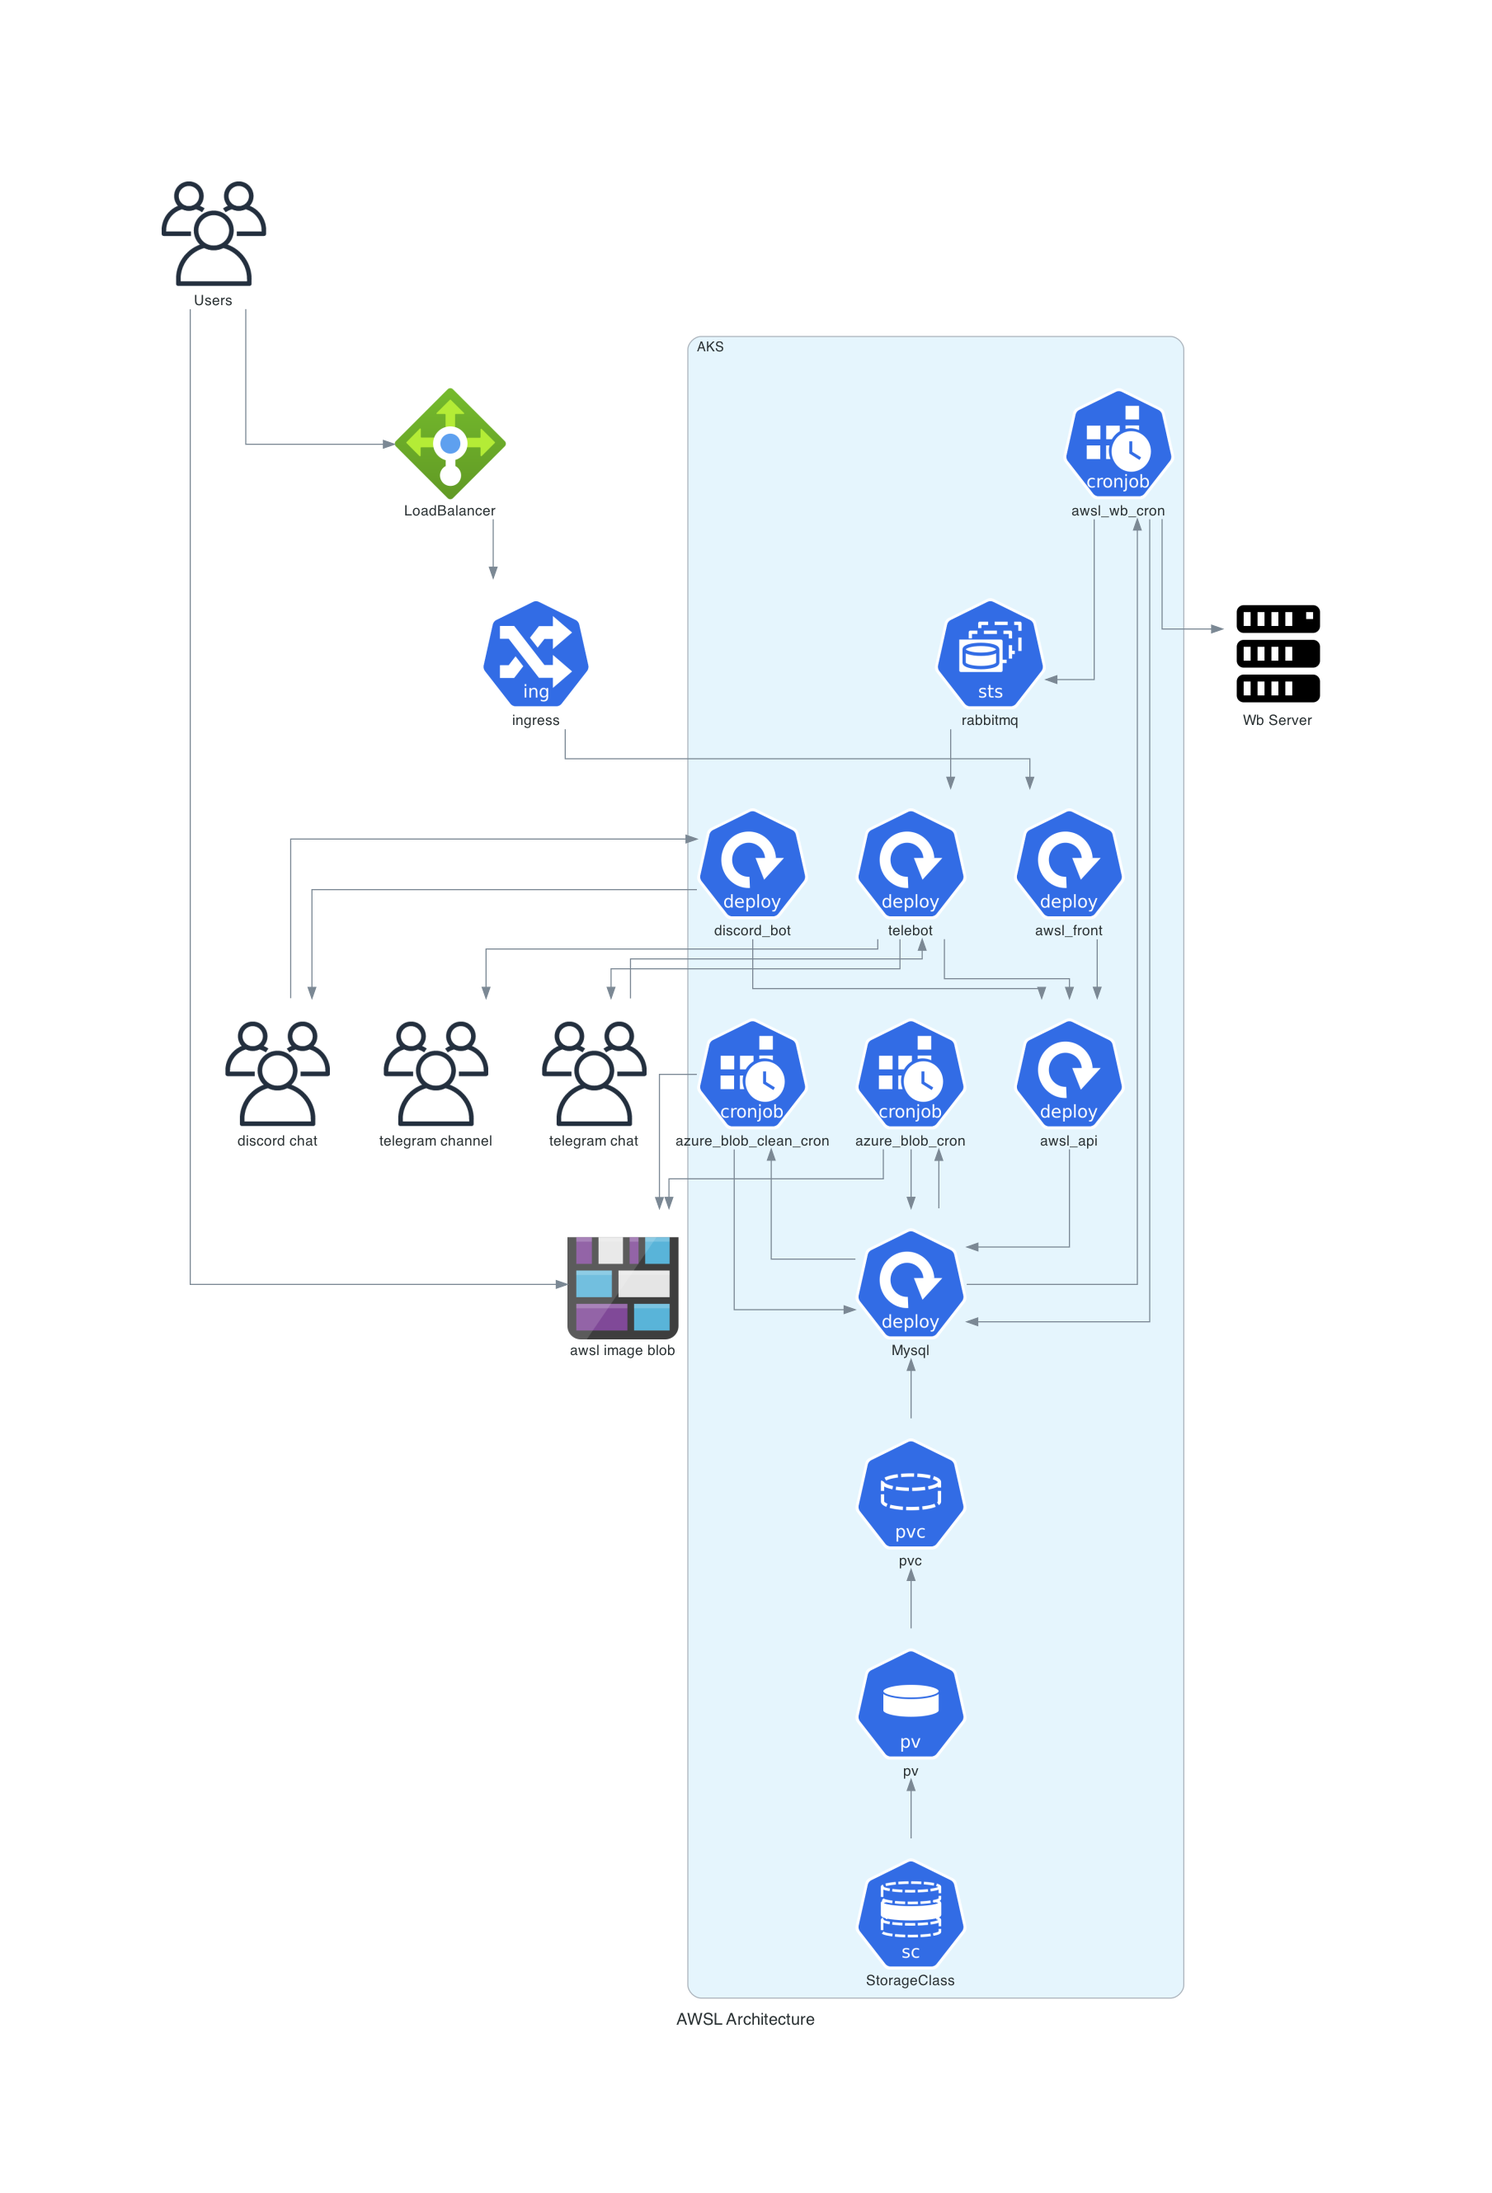
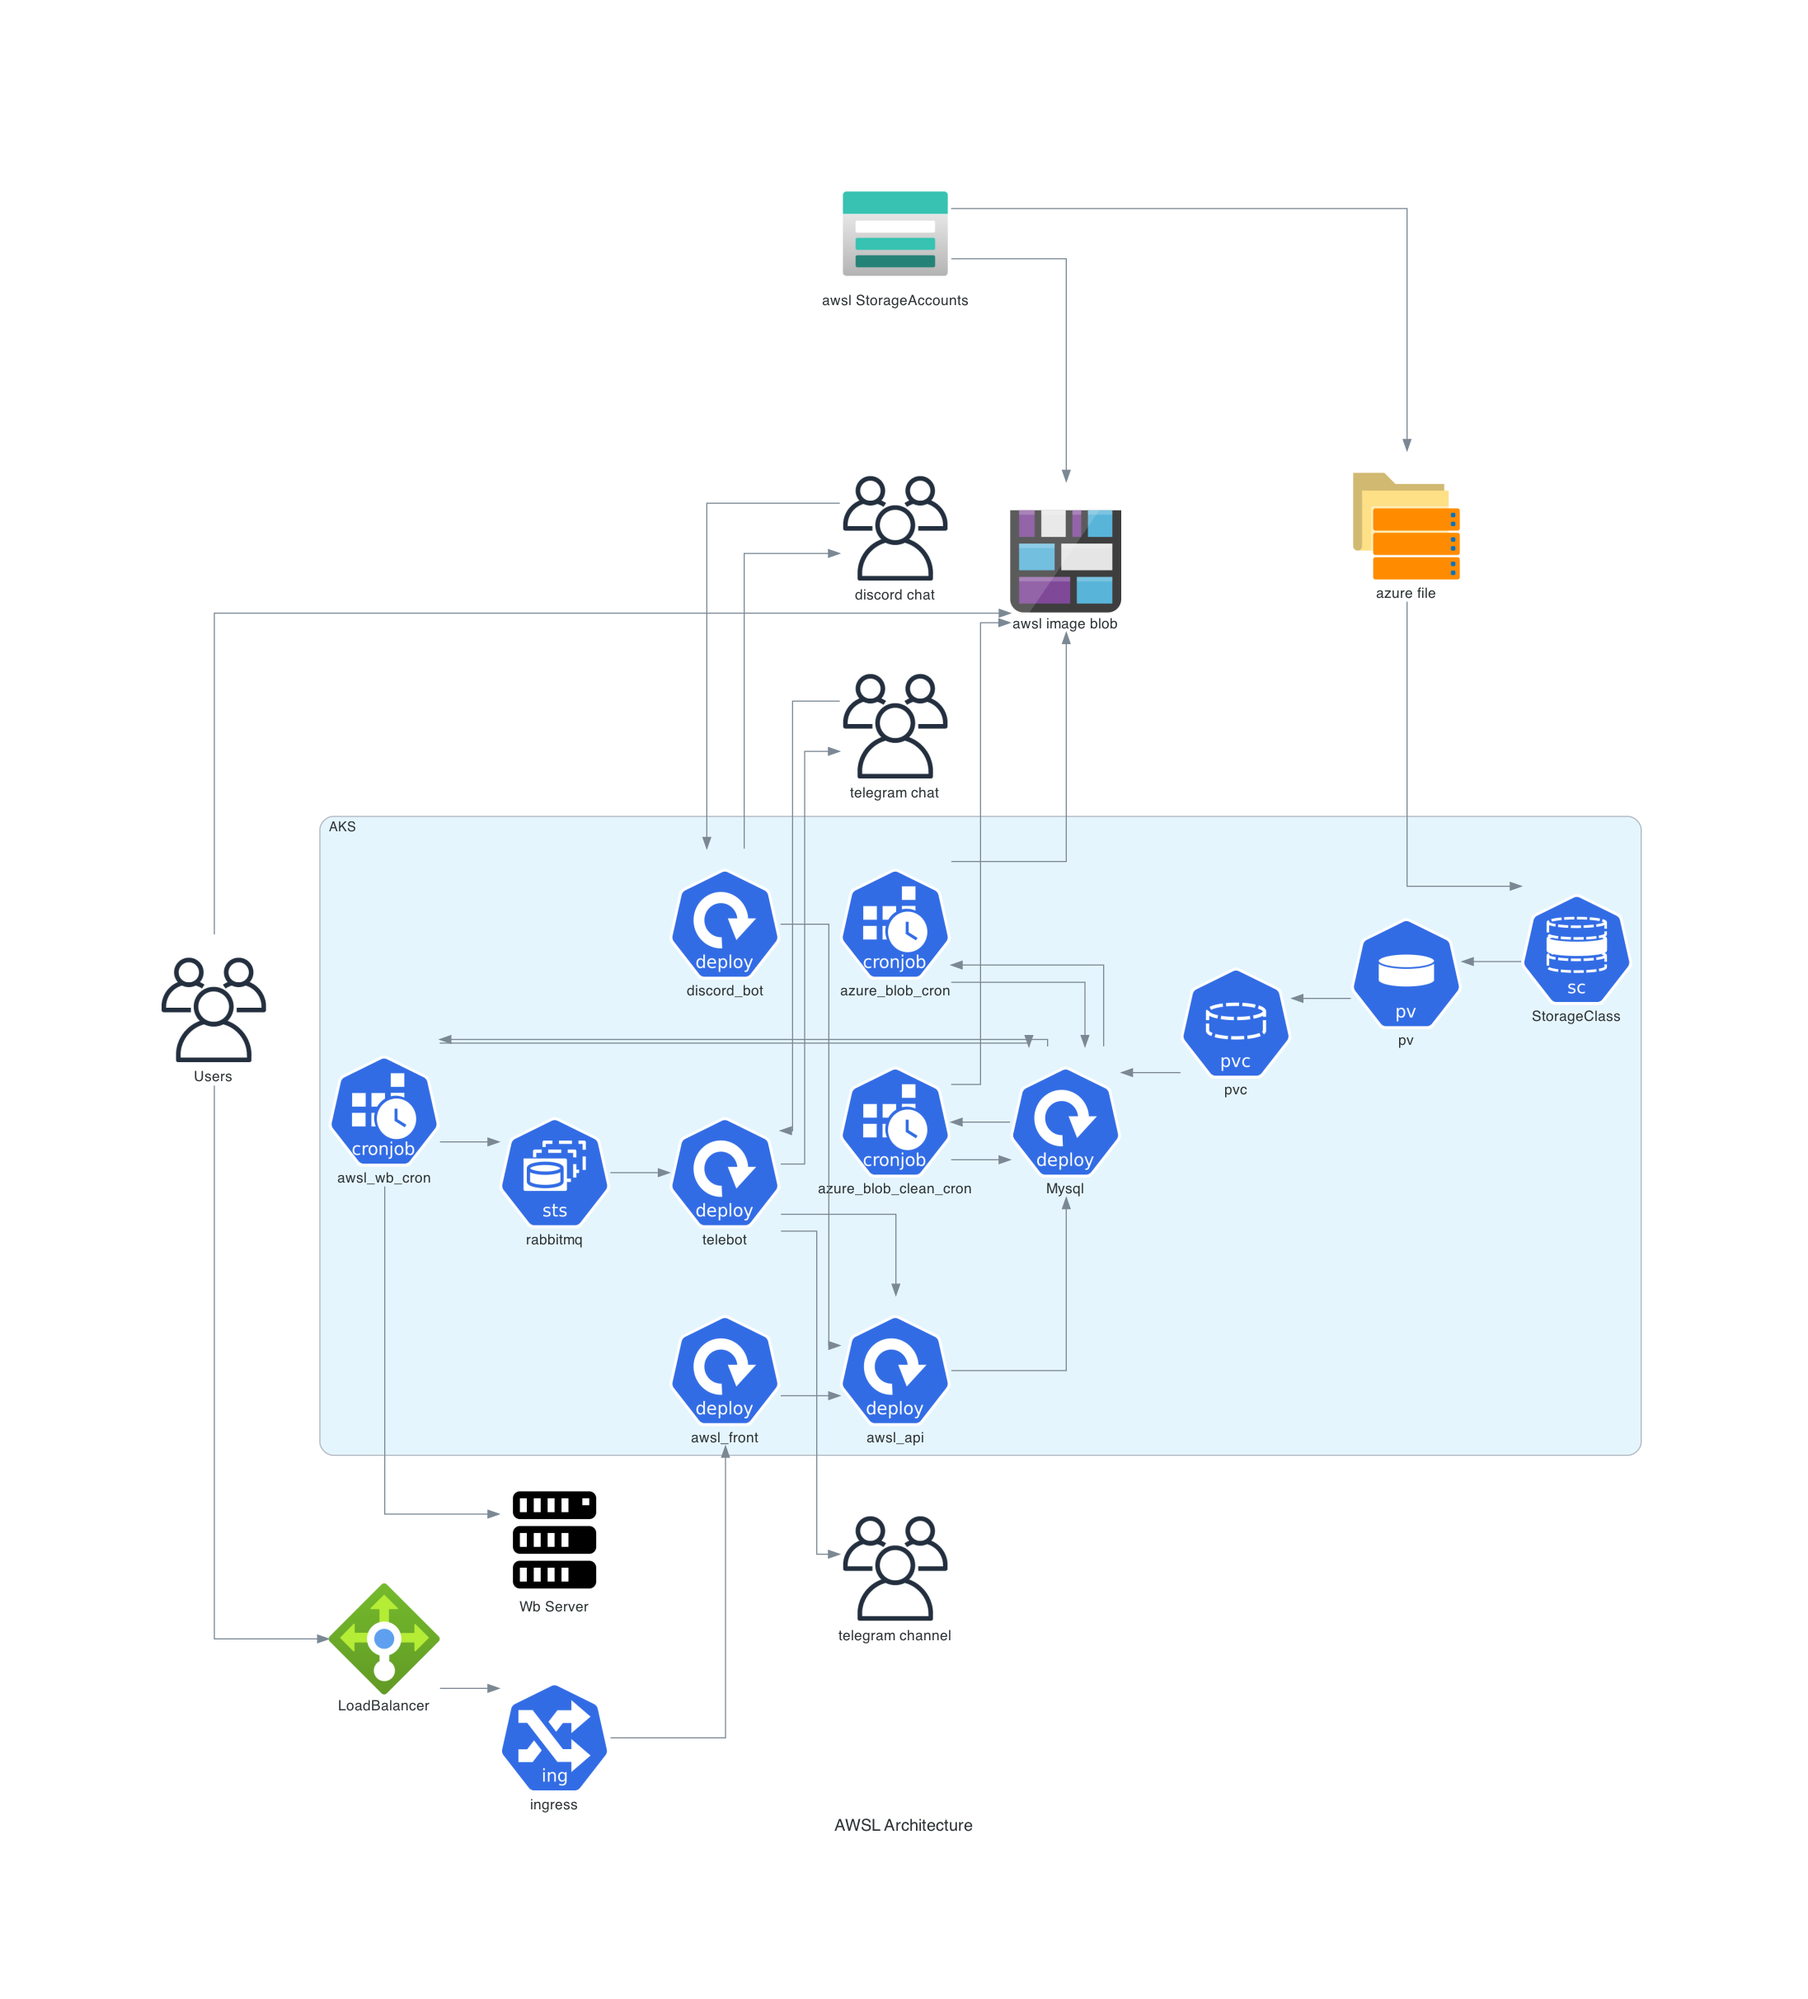
feat: init

diff --git a/main.py b/main.py
@@ -4,18 +4,19 @@ from diagrams.onprem.client import Users
 from diagrams.azure.network import LoadBalancers
 from diagrams.k8s.compute import Deployment, Cronjob, StatefulSet
 from diagrams.k8s.storage import PV, PVC, StorageClass
-from diagrams.azure.storage import BlobStorage
+from diagrams.azure.storage import StorageAccounts, BlobStorage, Azurefxtedgefiler
 from diagrams.onprem.compute import Server
 
 
-with Diagram(name="AWSL Architecture", direction="TB"):
+with Diagram(name="AWSL Architecture"):
     users = Users("Users")
     loadBalancer = LoadBalancers("LoadBalancer")
     ingress = Ingress("ingress")
 
     with Cluster("AKS"):
         mysql = Deployment("Mysql")
-        mysql << PVC("pvc") << PV("pv") << StorageClass("StorageClass")
+        sc = StorageClass("StorageClass")
+        mysql << PVC("pvc") << PV("pv") << sc
 
         awsl_api = Deployment("awsl_api")
         awsl_front = Deployment("awsl_front")
@@ -39,7 +40,13 @@ with Diagram(name="AWSL Architecture", direction="TB"):
         azure_blob_clean_cron >> mysql
         azure_blob_clean_cron << mysql
 
+    awsl_storage = StorageAccounts("awsl StorageAccounts")
     awsl_blob = BlobStorage("awsl image blob")
+    azure_file = Azurefxtedgefiler("azure file")
+    azure_file >> sc
+    awsl_storage >> awsl_blob
+    awsl_storage >> azure_file
+
     azure_blob_cron >> awsl_blob
     azure_blob_clean_cron >> awsl_blob
 
